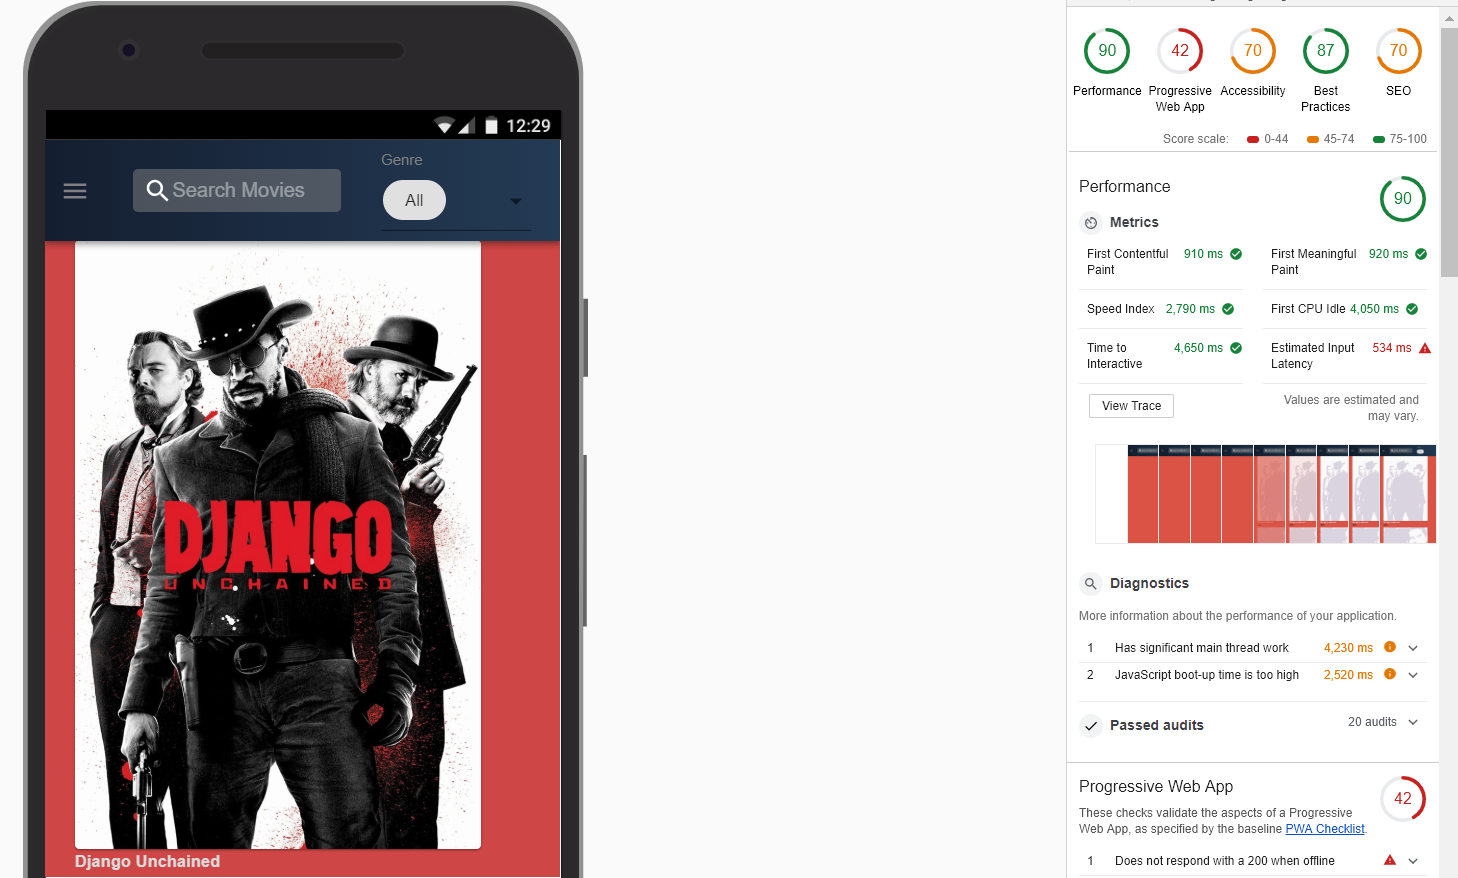
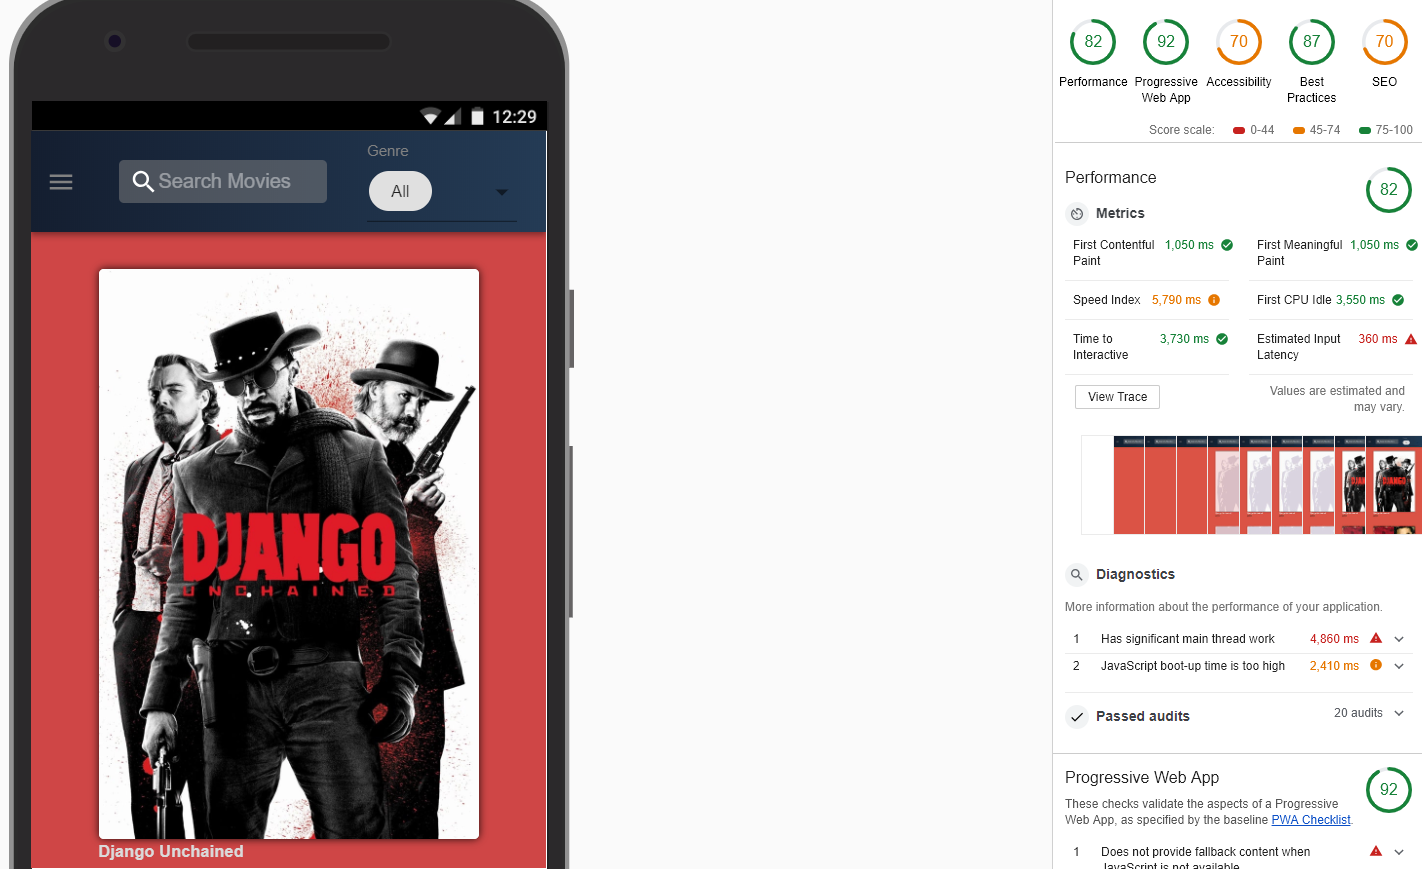
COMMENTS.md updated

diff --git a/README.md b/README.md
@@ -14,7 +14,7 @@
 
 ## Introduction
 
-Engima is a react based PWA powered by GatsbyJS offers best movies collection at latest with highly configurable features for both dev and production mode.
+Engima is a react based PWA powered by GatsbyJS built on `The PRPL pattern` offers best movies collection at latest with highly configurable features for both dev and production mode.
 
 *Please read [COMMENTS.md](./COMMENTS.md) for more details*
 
@@ -36,6 +36,7 @@ This app is built with certain essential components:
 
 ## `Features`
 
+ * PWA - offline mode
  * Route based code splitting to reduce initial app load time
  * React suspence based fallback placeholders on images
  * Eslist - Airbnb styleguide is being followed

diff --git a/COMMENTS.md b/COMMENTS.md
@@ -33,10 +33,15 @@ These are following reasons:
 
 - gatsby is built on Redux as it helps to override all actions when they get dispatched during compiling its build. I used `onCreatePage` and `onCreateNode` to manipulte page creation behaviour and data fetching from REST API of `theMovieDB`.
 
+4. **PWA Support**
+
+- Gatsby provides `gatsby-plugin-offline` and `gatsby-plugin-manifest` to register a service worker for offline mode out of the box.
+
 ## 🤝 Audits
 
 After running Google lighthouse audits, the results were outstanding for the basic prototype:
 
 - All audits categories met the satisfactory criteria.
+- PWA score is super amazing
 
 ![Drag Racing](lighthouse.png)
